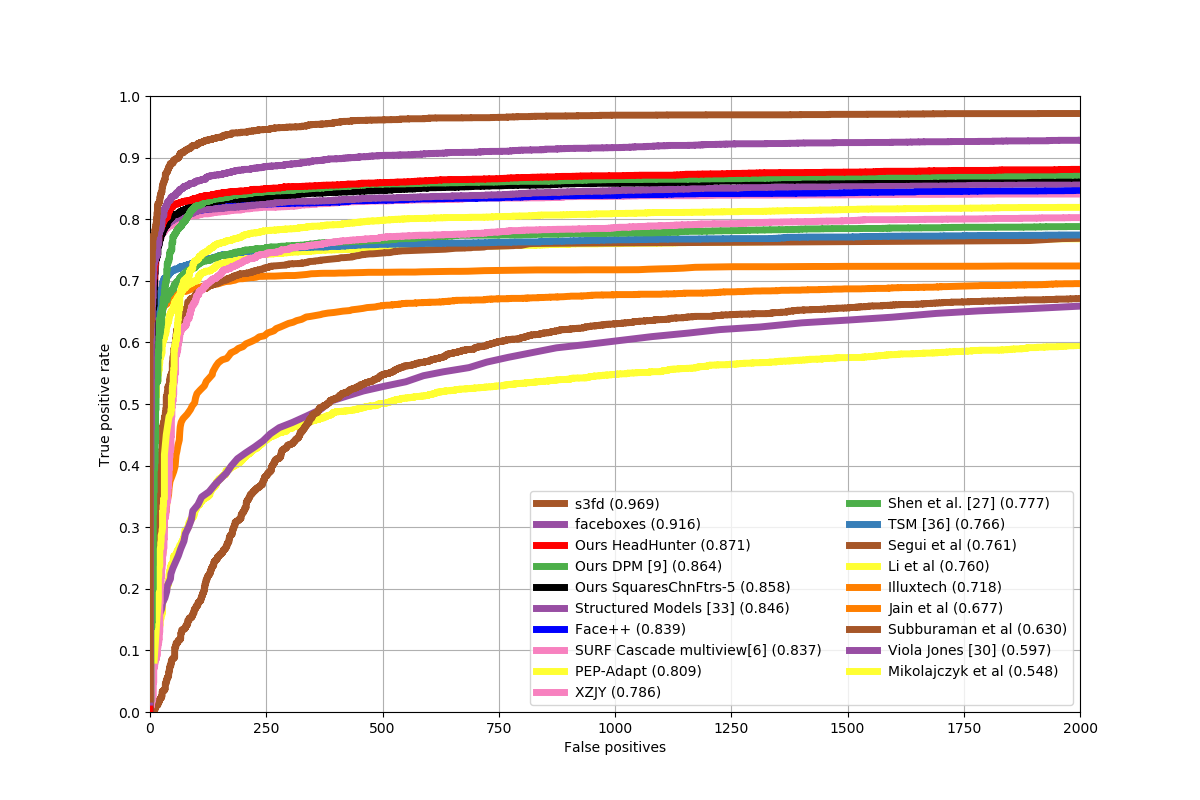
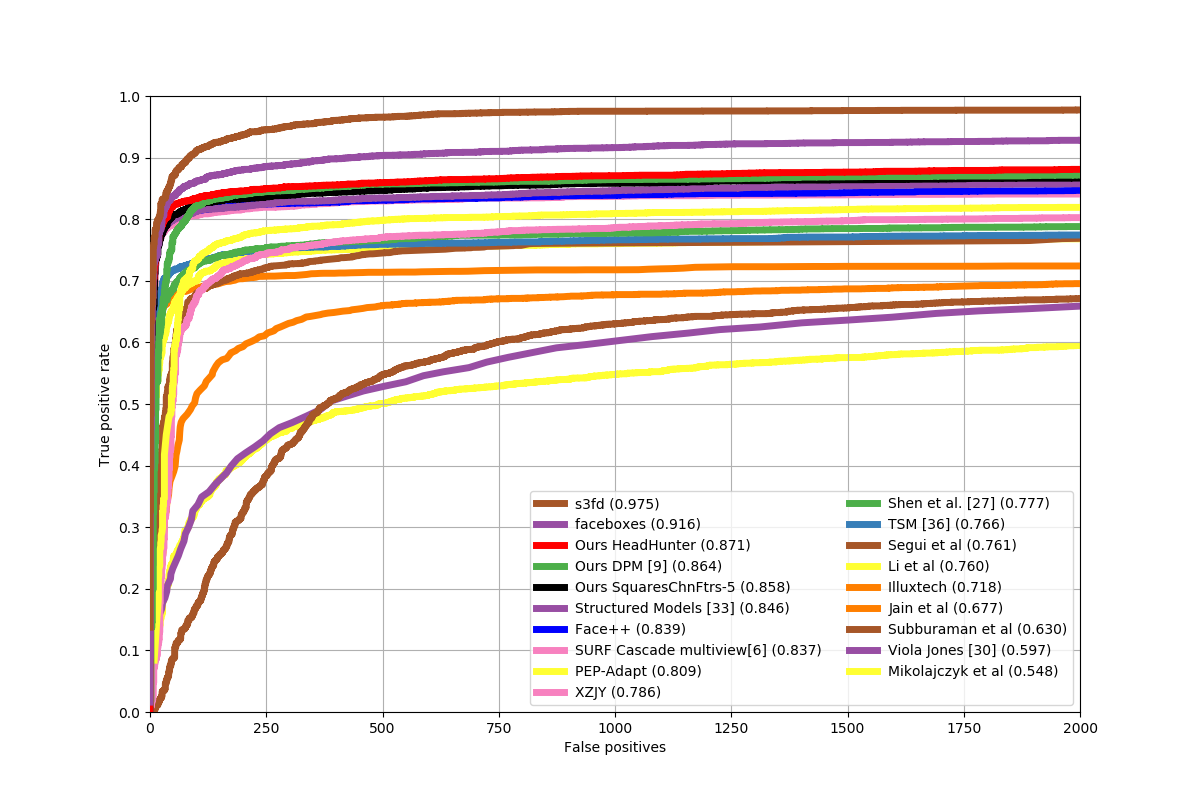
modify readme

diff --git a/tools/wider_test.py b/tools/wider_test.py
@@ -27,7 +27,7 @@ from utils.augmentations import S3FDBasicTransform
 parser = argparse.ArgumentParser(description='s3df evaluatuon wider')
 parser.add_argument('--trained_model', type=str,
                     default='weights/s3fd.pth', help='trained model')
-parser.add_argument('--thresh', default=0.1, type=float,
+parser.add_argument('--thresh', default=0.05, type=float,
                     help='Final confidence threshold')
 args = parser.parse_args()
 
@@ -68,7 +68,7 @@ def detect_face(net, img, shrink):
     det_ymax = img.shape[0] * detections[0, 1, :, 4] / shrink
     det = np.column_stack((det_xmin, det_ymin, det_xmax, det_ymax, det_conf))
 
-    keep_index = np.where(det[:, 4] >= args.thresh)[0]
+    keep_index = np.where(det[:, 4] >=0)[0]
     det = det[keep_index, :]
 
     return det
@@ -222,13 +222,7 @@ if __name__ == '__main__':
 
             t2 = time.time()
             print('Detect %04d th image costs %.4f' % (counter, t2 - t1))
-
-            for bbox in dets:
-                x1, y1, x2, y2, score = bbox
-                x1, y1, x2, y2 = int(x1), int(y1), int(x2), int(y2)
-                if score >= 0.3:
-                    cv2.rectangle(img, (x1, y1), (x2, y2), (0, 0, 255), 2)
-            cv2.imwrite('test.jpg', img)
+            
 
             fout = open(osp.join(save_path, event[0][
                         0].encode('utf-8'), im_name + '.txt'), 'w')

diff --git a/s3fd.py b/s3fd.py
@@ -13,7 +13,7 @@ from torch.autograd import Variable
 
 from layers import *
 from data.config import cfg
-
+import numpy as np
 
 class S3FD(nn.Module):
     """Single Shot Multibox Architecture
@@ -147,6 +147,7 @@ class S3FD(nn.Module):
         loc = torch.cat([o.view(o.size(0), -1) for o in loc], 1)
         conf = torch.cat([o.view(o.size(0), -1) for o in conf], 1)
 
+       
         if self.phase == 'test':
             output = self.detect(
                 loc.view(loc.size(0), -1, 4),                   # loc preds
@@ -154,6 +155,7 @@ class S3FD(nn.Module):
                                        self.num_classes)),                # conf preds
                 self.priors.type(type(x.data))                  # default boxes
             )
+
         else:
             output = (
                 loc.view(loc.size(0), -1, 4),
@@ -259,8 +261,9 @@ def build_s3fd(phase, num_classes=2):
 
     return S3FD(phase, base_, extras_, head_, num_classes)
 
+
 if __name__ == '__main__':
     net = build_s3fd('train', num_classes=2)
-    net.init([340, 300])
-    inputs = Variable(torch.randn(1, 3, 340, 300))
+    inputs = Variable(torch.randn(4, 3, 640, 640))
     output = net(inputs)
+

diff --git a/eval_tools/wider_eval.m b/eval_tools/wider_eval.m
@@ -7,7 +7,7 @@ clear;
 close all;
 addpath(genpath('./plot'));
 %Please specify your prediction directory.
-pred_dir = './s3fd_val';
+pred_dir = './sfd_val';
 gt_dir = './ground_truth/wider_face_val.mat';
 %preprocessing
 pred_list = read_pred(pred_dir,gt_dir);

diff --git a/data/config.py b/data/config.py
@@ -46,6 +46,6 @@ cfg.GAMMA = 4
 
 
 # detection config
-cfg.NMS_THRESH = 0.3
+cfg.NMS_THRESH = 0.5
 cfg.TOP_K = 1000
 cfg.CONF_THRESH = 0.05

diff --git a/README.md b/README.md
@@ -51,7 +51,7 @@ python demo.py
 
 	AFW AP=99.43 paper=99.85 
 	PASCAL AP=98.77 paper=98.49
-	FDDB AP=0.969 paper=0.983
+	FDDB AP=0.975 paper=0.983
 
 2. demo
 <div align="center">
